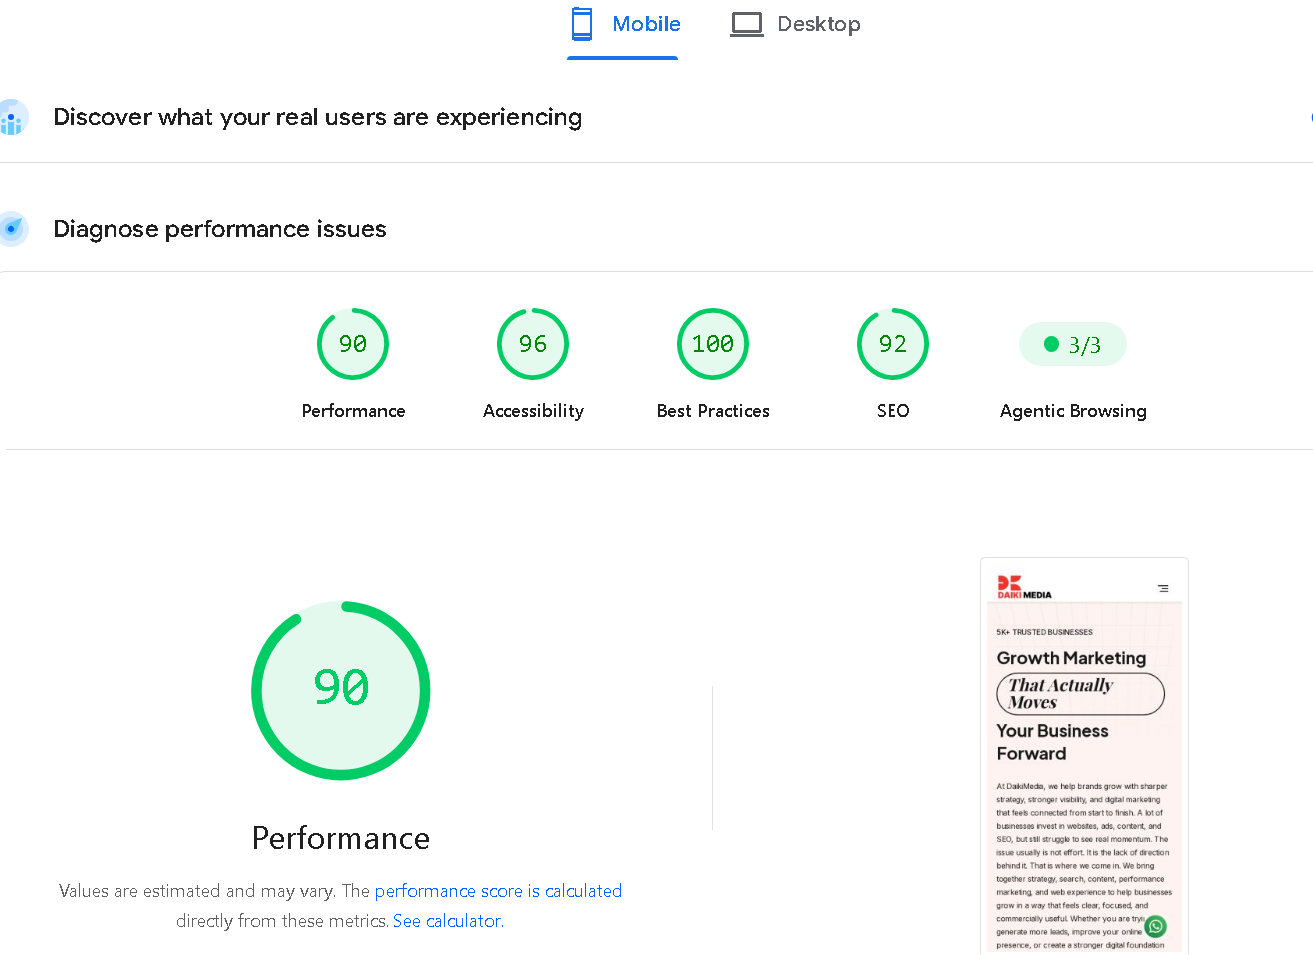
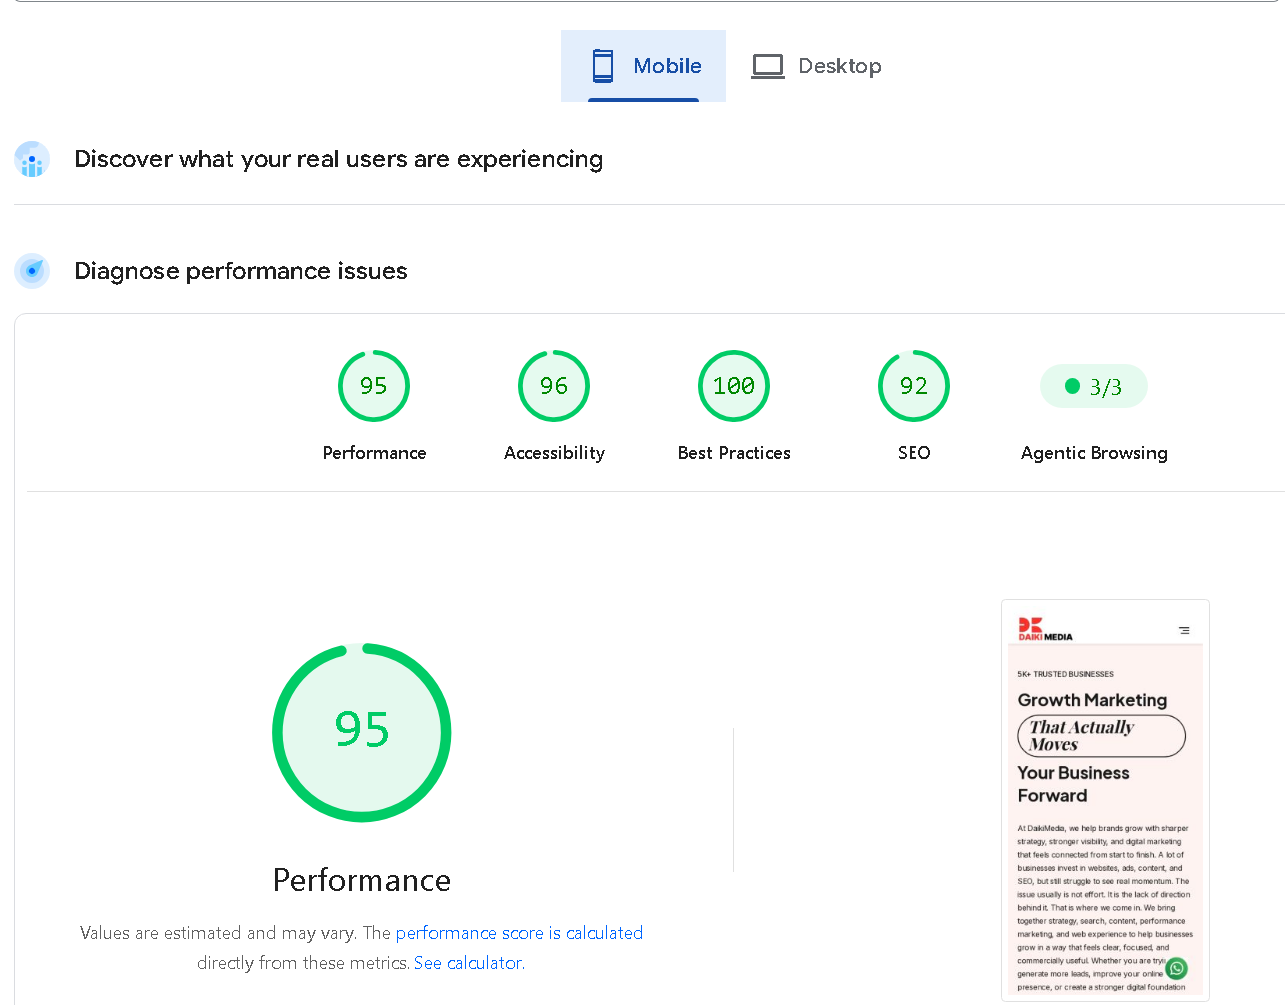
images and case study updated

diff --git a/src/lib/caseStudies.ts b/src/lib/caseStudies.ts
@@ -136,6 +136,7 @@ export const caseStudies: CaseStudy[] = [
     gallery: [
       { src: '/nexus.webp', label: 'Homepage — hero section' },
       { src: '/nexus-service-pages.webp', label: 'Botox treatment service page' },
+      { src: '/nexus-full.webp', label: 'full page desing' },
     ],
     featured: true,
   },
@@ -174,28 +175,63 @@ export const caseStudies: CaseStudy[] = [
     title: 'Vinyl & Carpet Flooring Retailer — API Caching & Core Web Vitals Fix',
     client: 'Vinyl & carpet flooring retailer, Malaysia',
     summary:
-      'Fixed an already-built Next.js site that was extremely slow by replacing scattered, repeated API calls with a centralized caching layer — landing near-perfect Lighthouse scores on mobile and desktop.',
+      'Fixed an already-built Next.js site that was extremely slow and felt sluggish to browse, by replacing scattered, repeated API calls with a centralized caching layer — smoothing out scrolling and page-to-page navigation while landing near-perfect Lighthouse scores on mobile and desktop.',
     categories: ['Performance', 'Core Web Vitals'],
     challenge:
-      'The site was already built in Next.js on Vercel, pulling content from a CMS API built by another developer, but it was extremely slow. The same API endpoints were being fetched independently on multiple pages — sometimes multiple times on a single page — with no single caching layer controlling any of it. Every page load re-hit an already-slow backend API directly, compounding load time on top of a slow server.',
+      'The site was already built in Next.js on Vercel, pulling content from a CMS API built by another developer, but it was extremely slow. The same API endpoints were being fetched independently on multiple pages — sometimes multiple times on a single page — with no single caching layer controlling any of it. Every page load re-hit an already-slow backend API directly, compounding load time on top of a slow server, and browsing the site felt heavy — scrolling and moving between pages kept stalling while components waited on the same data to come back again.',
     solution:
-      'Introduced a centralized caching layer across the site — products, blogs, and general site data all now go through cached fetches instead of every page independently re-calling the CMS API. That cut both the number of API calls and the time spent waiting on the slow backend, taking load time and Largest Contentful Paint down sharply on both mobile and desktop.',
+      'Introduced a centralized caching layer across the site — products, blogs, and general site data all now go through cached fetches instead of every page independently re-calling the CMS API. That cut both the number of API calls and the time spent waiting on the slow backend, taking load time and Largest Contentful Paint down sharply on both mobile and desktop. With components no longer re-fetching the same data on every render, scrolling and navigating through product and blog pages became smooth and immediate instead of stalling — the whole site got faster to move through, not just faster to first paint.',
     features: [
       'Centralized caching layer for products, blogs & site-wide data',
       'Eliminated duplicate, uncached API calls across pages',
       'Next.js data fetching optimized, deployed on Vercel',
       'LCP and load-time optimization across mobile & desktop',
+      'Smooth, uninterrupted scrolling and page-to-page navigation',
     ],
     techStack: ['Next.js', 'React', 'Vercel', 'Headless CMS API (third-party)'],
     proof: [
       'Mobile Lighthouse: 97 Performance, 96 Accessibility, 100 Best Practices, 100 SEO',
       'Desktop Lighthouse: 99 Performance, 96 Accessibility, 96 Best Practices, 100 SEO',
       'Repeated, uncached API calls scattered across pages replaced with a single centralized caching layer for products, blogs, and site data',
+      'Scrolling and browsing across product and blog pages no longer stalls on repeat API calls — the site now moves as fast as it loads',
     ],
     imageLabel: 'Flooring retailer — desktop Lighthouse audit (1600x1000)',
     gallery: [
+      { src: '/furnishing-hero.webp', label: 'site image' },
       { src: '/furnishing-lcp-desktop.png', label: 'Desktop Lighthouse audit — after caching' },
       { src: '/furnishing-lcp.png', label: 'Mobile Lighthouse audit — after caching' },
+    ],
+    featured: true,
+  },
+  {
+    slug: 'daikimedia-core-web-vitals-optimization',
+    title: 'DaikiMedia — Core Web Vitals & Performance Optimization',
+    client: 'DaikiMedia — growth marketing agency (the agency\'s own site)',
+    summary:
+      'Fixed a mobile Performance score stuck at 46 on DaikiMedia\'s own marketing site, taking it to 95 on mobile and a perfect 100 on desktop with a full-stack optimization pass.',
+    categories: ['Performance', 'Core Web Vitals'],
+    challenge:
+      "DaikiMedia's own marketing site — the agency's primary lead-generation asset — was scoring just 46 for mobile Performance in Google PageSpeed Insights, despite Accessibility, Best Practices, and SEO all already sitting in the 90s. The site looked fine on paper but was slow for the real visitors it needed to convert.",
+    solution:
+      "Rather than chasing a single metric, ran a full performance pass across every layer contributing to the slow mobile load: optimized and lazy-loaded images, removed render-blocking JS/CSS, tightened font loading, trimmed unnecessary third-party scripts, and improved caching across the site. The site is a Next.js/React app shipped as a static export to the live host, so the fixes landed directly in the exported build rather than depending on server-side tuning.",
+    features: [
+      'Image optimization & lazy-loading across the site',
+      'Removed render-blocking JS/CSS',
+      'Optimized font loading & trimmed third-party scripts',
+      'Caching improvements across pages',
+      'Next.js static export (SSG) build shipped to production',
+    ],
+    techStack: ['Next.js', 'React', 'Static Export (SSG)'],
+    proof: [
+      'Mobile Lighthouse Performance: 46 → 95 after optimization, with Accessibility 96, Best Practices 100, and SEO 92 held steady',
+      'Desktop Lighthouse: 100 Performance, 93 Accessibility, 100 Best Practices, 92 SEO',
+      'Fixed at the build level — the site ships as a static Next.js export, not a server-rendered app tuned after the fact',
+    ],
+    imageLabel: 'DaikiMedia — desktop Lighthouse audit after optimization (1600x1000)',
+    gallery: [
+      { src: '/daikimedia-core-web-vital-destop.png', label: 'Desktop Lighthouse audit — after optimization (100 Performance)' },
+      { src: '/daikimedia-before-core-web-vital.png', label: 'Mobile Lighthouse audit — before optimization (46 Performance)' },
+      { src: '/daikimedia.after-core-web-vital.png', label: 'Mobile Lighthouse audit — after optimization (95 Performance)' },
     ],
     featured: true,
   },

diff --git a/src/components/CaseStudyCTA.tsx b/src/components/CaseStudyCTA.tsx
@@ -1,5 +1,5 @@
 import Link from 'next/link';
-
+import { getWhatsAppLink } from '@/lib/socialLinks';
 interface CaseStudyCTAProps {
   text: string;
 }
@@ -10,7 +10,7 @@ export default function CaseStudyCTA({ text }: CaseStudyCTAProps) {
       <h2 className="text-2xl font-bold mb-4">Have a similar system to build?</h2>
       <p className="text-secondaryText mb-8 max-w-xl mx-auto">{text}</p>
       <Link
-        href="/#contact"
+        href={getWhatsAppLink()}
         className="btn-hover-cta inline-block px-8 py-4 bg-ctaAccent text-background font-semibold rounded-lg hover:bg-ctaAccentHover transition-colors"
       >
         Start Your Project

diff --git a/src/app/blog/[slug]/page.tsx b/src/app/blog/[slug]/page.tsx
@@ -1,7 +1,6 @@
 import type { Metadata } from 'next';
 import Link from 'next/link';
 import { notFound } from 'next/navigation';
-import Footer from '@/components/Footer';
 import CaseStudyCTA from '@/components/CaseStudyCTA';
 import { blogPosts, getBlogPost } from '@/lib/blogPosts';
 
@@ -123,7 +122,6 @@ export default async function BlogPostPage({ params }: PageProps) {
           <CaseStudyCTA text="If this is the kind of problem you're dealing with right now, I can help you fix it in your own codebase." />
         </div>
       </div>
-      <Footer />
     </main>
   );
 }

diff --git a/src/app/blog/page.tsx b/src/app/blog/page.tsx
@@ -1,6 +1,5 @@
 import type { Metadata } from 'next';
 import Link from 'next/link';
-import Footer from '@/components/Footer';
 import { blogPosts } from '@/lib/blogPosts';
 
 const PAGE_TITLE = 'Technical Blog — Performance, SEO & Architecture Notes | Munnaza Shamim';
@@ -58,7 +57,6 @@ export default function BlogIndexPage() {
           ))}
         </div>
       </div>
-      <Footer />
     </main>
   );
 }

diff --git a/src/app/case-studies/commercial-vehicle-marketplace-network/page.tsx b/src/app/case-studies/commercial-vehicle-marketplace-network/page.tsx
@@ -2,7 +2,6 @@ import type { Metadata } from 'next';
 import Link from 'next/link';
 import { notFound } from 'next/navigation';
 import ImagePlaceholder from '@/components/ImagePlaceholder';
-import Footer from '@/components/Footer';
 import CaseStudyCTA from '@/components/CaseStudyCTA';
 import CaseStudyGallery from '@/components/CaseStudyGallery';
 import { getCaseStudy } from '@/lib/caseStudies';
@@ -130,7 +129,6 @@ export default function MarketplaceNetworkCaseStudy() {
           <CaseStudyCTA text="I build custom listing, search, and multi-site content systems the same way — engineered for scale, not a page-builder template." />
         </div>
       </div>
-      <Footer />
     </main>
   );
 }

diff --git a/src/app/case-studies/custom-laravel-blog-cms-secure-api/page.tsx b/src/app/case-studies/custom-laravel-blog-cms-secure-api/page.tsx
@@ -2,7 +2,6 @@ import type { Metadata } from 'next';
 import Image from 'next/image';
 import Link from 'next/link';
 import { notFound } from 'next/navigation';
-import Footer from '@/components/Footer';
 import CaseStudyCTA from '@/components/CaseStudyCTA';
 import CaseStudyGallery from '@/components/CaseStudyGallery';
 import { getCaseStudy } from '@/lib/caseStudies';
@@ -214,7 +213,6 @@ export default function LaravelBlogCMSCaseStudy() {
           <CaseStudyCTA text="I build custom CMS platforms and the APIs that feed them the same way — secured deliberately, not left to a plugin ecosystem to handle." />
         </div>
       </div>
-      <Footer />
     </main>
   );
 }

diff --git a/src/app/case-studies/furnishings-my-nextjs-api-caching/page.tsx b/src/app/case-studies/furnishings-my-nextjs-api-caching/page.tsx
@@ -2,7 +2,6 @@ import type { Metadata } from 'next';
 import Image from 'next/image';
 import Link from 'next/link';
 import { notFound } from 'next/navigation';
-import Footer from '@/components/Footer';
 import CaseStudyCTA from '@/components/CaseStudyCTA';
 import { getCaseStudy } from '@/lib/caseStudies';
 
@@ -187,7 +186,6 @@ export default function FurnishingsCaseStudy() {
           <CaseStudyCTA text="I fix slow, already-built sites the same way — tracing where the API calls actually go and putting proper caching in front of them, not just tweaking the front end." />
         </div>
       </div>
-      <Footer />
     </main>
   );
 }

diff --git a/src/app/case-studies/page.tsx b/src/app/case-studies/page.tsx
@@ -1,6 +1,5 @@
 import type { Metadata } from 'next';
 import Link from 'next/link';
-import Footer from '@/components/Footer';
 import CaseStudiesGrid from '@/components/CaseStudiesGrid';
 import { caseStudies, getAllCategories } from '@/lib/caseStudies';
 
@@ -37,7 +36,6 @@ export default function CaseStudiesIndexPage() {
 
         <CaseStudiesGrid caseStudies={caseStudies} categories={getAllCategories()} />
       </div>
-      <Footer />
     </main>
   );
 }

diff --git a/src/app/case-studies/real-time-vehicle-auction-platform/page.tsx b/src/app/case-studies/real-time-vehicle-auction-platform/page.tsx
@@ -1,7 +1,6 @@
 import type { Metadata } from 'next';
 import Link from 'next/link';
 import { notFound } from 'next/navigation';
-import Footer from '@/components/Footer';
 import CaseStudyCTA from '@/components/CaseStudyCTA';
 import CaseStudyGallery from '@/components/CaseStudyGallery';
 import { getCaseStudy } from '@/lib/caseStudies';
@@ -154,7 +153,6 @@ export default function AuctionPlatformCaseStudy() {
           <CaseStudyCTA text="I build real-time, high-traffic bidding and auction systems the same way — engineered for production, not just a demo." />
         </div>
       </div>
-      <Footer />
     </main>
   );
 }

diff --git a/src/app/layout.tsx b/src/app/layout.tsx
@@ -4,6 +4,7 @@ import { Inter, Sora } from 'next/font/google';
 import Navbar from '@/components/Navbar';
 import { SITE_URL, SITE_TITLE, SITE_DESCRIPTION } from '@/lib/site';
 import { socialLinks } from '@/lib/socialLinks';
+import Footer from '@/components/Footer';
 
 const inter = Inter({ subsets: ['latin'], variable: '--font-inter' });
 const sora = Sora({
@@ -84,6 +85,7 @@ export default function RootLayout({
         />
         <Navbar />
         {children}
+        <Footer />
       </body>
     </html>
   );

diff --git a/src/app/page.tsx b/src/app/page.tsx
@@ -25,7 +25,6 @@ export default function Home() {
       <Process />
       <Testimonials />
       <Contact />
-      <Footer />
     </main>
   );
 }